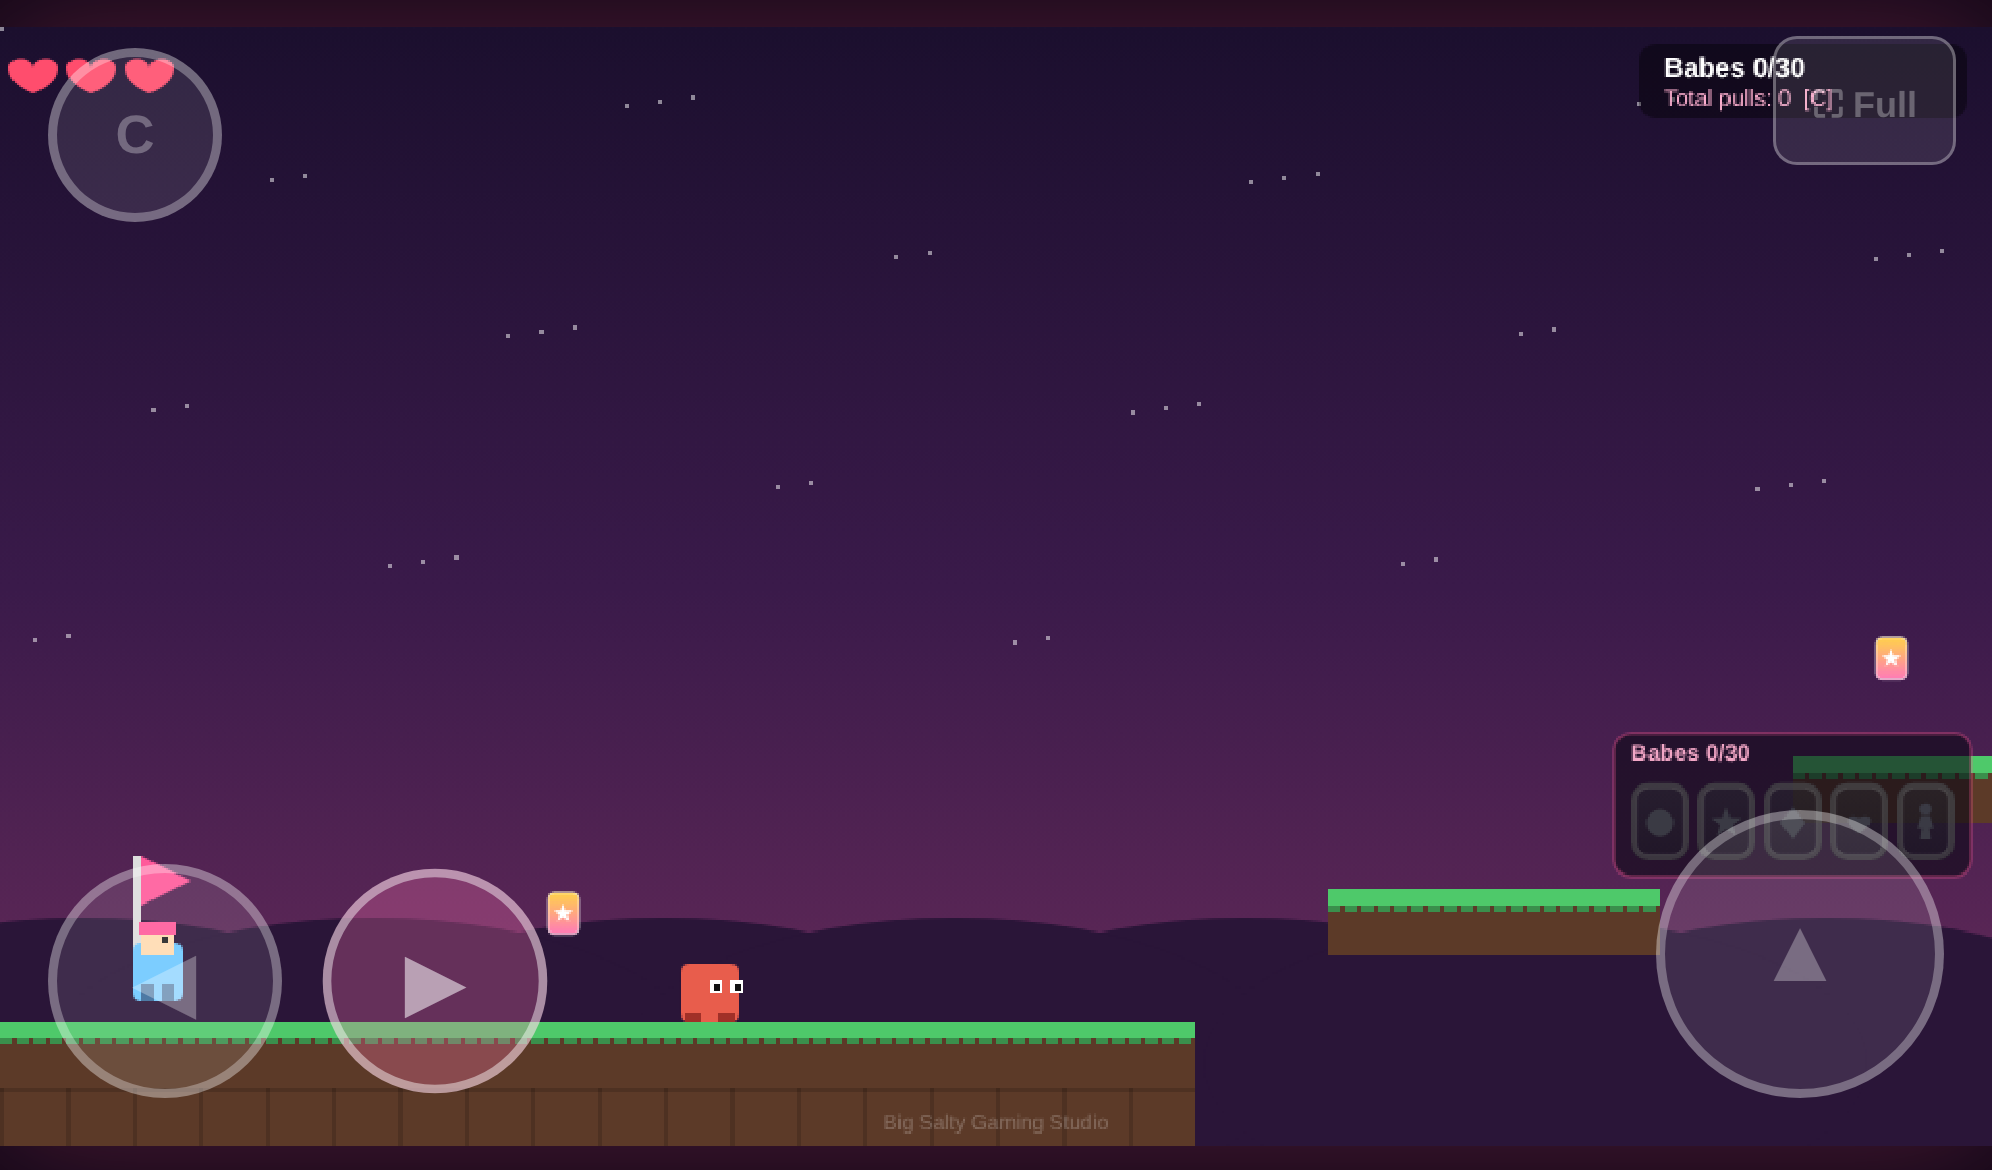
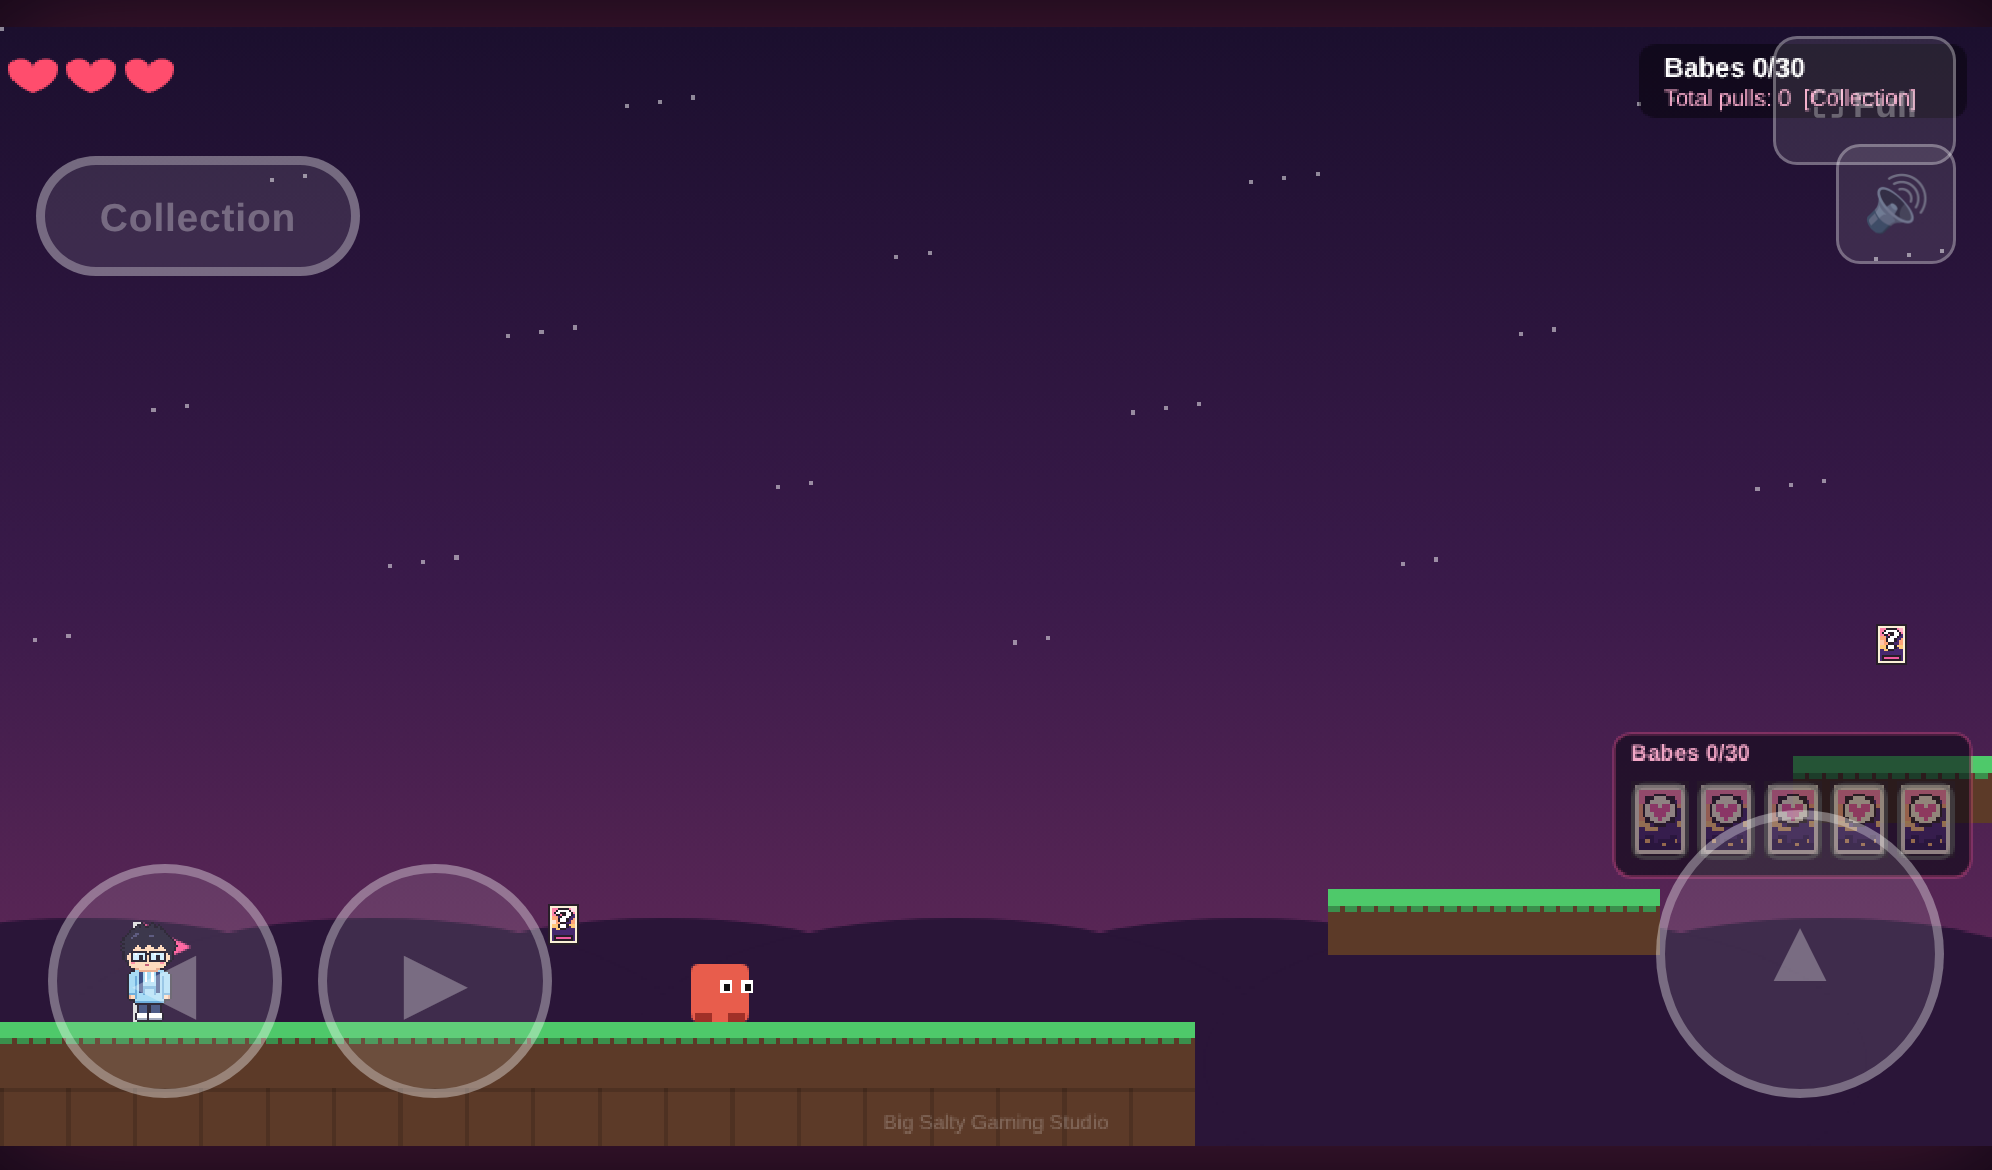
Rename mobile C button to Collection
Wider pill button below hearts; mobile HUD/title/win hints say Collection.

diff --git a/index.html b/index.html
@@ -81,11 +81,18 @@
     bottom: max(24px, env(safe-area-inset-bottom));
     width: 96px; height: 96px; font-size: 30px;
   }
-  /* Gallery button top-left so it clears top-right HUD "Babes" and bottom-right tray */
+  /* Collection — top-left pill, below heart row so it clears HUD */
   #tColl  {
-    left: max(16px, env(safe-area-inset-left));
-    top: max(16px, env(safe-area-inset-top));
-    width: 58px; height: 58px; font-size: 18px;
+    left: max(12px, env(safe-area-inset-left));
+    top: max(52px, calc(env(safe-area-inset-top) + 44px));
+    width: auto;
+    min-width: 108px;
+    height: 40px;
+    padding: 0 14px;
+    border-radius: 20px;
+    font-size: 13px;
+    letter-spacing: 0.02em;
+    white-space: nowrap;
   }
   #fsBtn {
     position: absolute;
@@ -135,7 +142,15 @@
     #tLeft  { left: max(12px, env(safe-area-inset-left)); bottom: max(18px, env(safe-area-inset-bottom)); }
     #tRight { left: calc(max(12px, env(safe-area-inset-left)) + 78px); bottom: max(18px, env(safe-area-inset-bottom)); }
     #tJump  { right: max(12px, env(safe-area-inset-right)); bottom: max(18px, env(safe-area-inset-bottom)); }
-    #tColl  { left: max(12px, env(safe-area-inset-left)); top: max(12px, env(safe-area-inset-top)); width: 52px; height: 52px; font-size: 16px; }
+    #tColl  {
+      left: max(10px, env(safe-area-inset-left));
+      top: max(48px, calc(env(safe-area-inset-top) + 40px));
+      min-width: 100px;
+      height: 36px;
+      padding: 0 12px;
+      border-radius: 18px;
+      font-size: 12px;
+    }
     #fsBtn  { right: max(10px, env(safe-area-inset-right)); top: max(10px, env(safe-area-inset-top)); font-size: 11px; padding: 6px 10px; }
   }
 </style>
@@ -147,7 +162,7 @@
     <button type="button" class="tbtn" id="tLeft" aria-label="Left">◀</button>
     <button type="button" class="tbtn" id="tRight" aria-label="Right">▶</button>
     <button type="button" class="tbtn" id="tJump" aria-label="Jump">▲</button>
-    <button type="button" class="tbtn" id="tColl" aria-label="Babe gallery">C</button>
+    <button type="button" class="tbtn" id="tColl" aria-label="Collection">Collection</button>
   </div>
   <button type="button" id="fsBtn" aria-label="Fullscreen">⛶ Full</button>
   <button type="button" id="muteBtn" aria-label="Mute" title="Mute (M)">🔊</button>
@@ -2093,7 +2108,7 @@ function drawHUD() {
   ctx.fillText("Babes " + unique + "/" + BABE_POOL.length, W - 158, 24);
   ctx.font = "11px sans-serif";
   ctx.fillStyle = "#ffb0d0";
-  ctx.fillText("Total pulls: " + total + "  [C]", W - 158, 38);
+  ctx.fillText("Total pulls: " + total + (isTouch ? "  [Collection]" : "  [C]"), W - 158, 38);
 
   // studio tag
   ctx.fillStyle = "rgba(255,255,255,0.25)";
@@ -2455,7 +2470,9 @@ function drawTitle() {
 
   ctx.fillStyle = "#999";
   ctx.font = "12px sans-serif";
-  ctx.fillText("←→ / A D move  •  Space / W / ↑ jump  •  C babe gallery", W/2, 420);
+  ctx.fillText(isTouch
+    ? "On-screen ← → Jump  •  Collection"
+    : "←→ / A D move  •  Space / W / ↑ jump  •  C babe gallery", W/2, 420);
   if (isTouch) {
     ctx.fillStyle = "#c8a0b8";
     ctx.font = "13px sans-serif";
@@ -2739,7 +2756,7 @@ function drawWin() {
   ctx.fillText(isTouch ? "Tap to Restart" : "Press R or Enter to Restart", W / 2, H - 48);
   ctx.fillStyle = "#aaa";
   ctx.font = "13px sans-serif";
-  ctx.fillText("Press C to view full babe gallery", W / 2, H - 26);
+  ctx.fillText(isTouch ? "Open Collection to view your babes" : "Press C to view full babe gallery", W / 2, H - 26);
 }
 
 function frame(dt) {

diff --git a/README.md b/README.md
@@ -16,7 +16,7 @@ Single-file game: open `index.html` in Chrome or Safari (double-click works offl
 | Start | Enter / Space on title |
 | Restart (after win) | R or Enter |
 
-On touch devices, large on-screen buttons appear (← → jump, C gallery). Portrait and landscape both work — title screen notes you can use either. Tap title/win to start/restart; gallery supports swipe scroll and tap filters.
+On touch devices, large on-screen buttons appear (← → Jump, Collection). Portrait and landscape both work — title screen notes you can use either. Tap title/win to start/restart; gallery supports swipe scroll and tap filters.
 
 ### Mobile / share link
 Open `index.html` (or host the file) on iOS Safari / Android Chrome. Viewport is locked (no zoom); WebAudio unlocks on first tap; optional fullscreen button. Add to Home Screen friendly (`apple-mobile-web-app-capable`).
